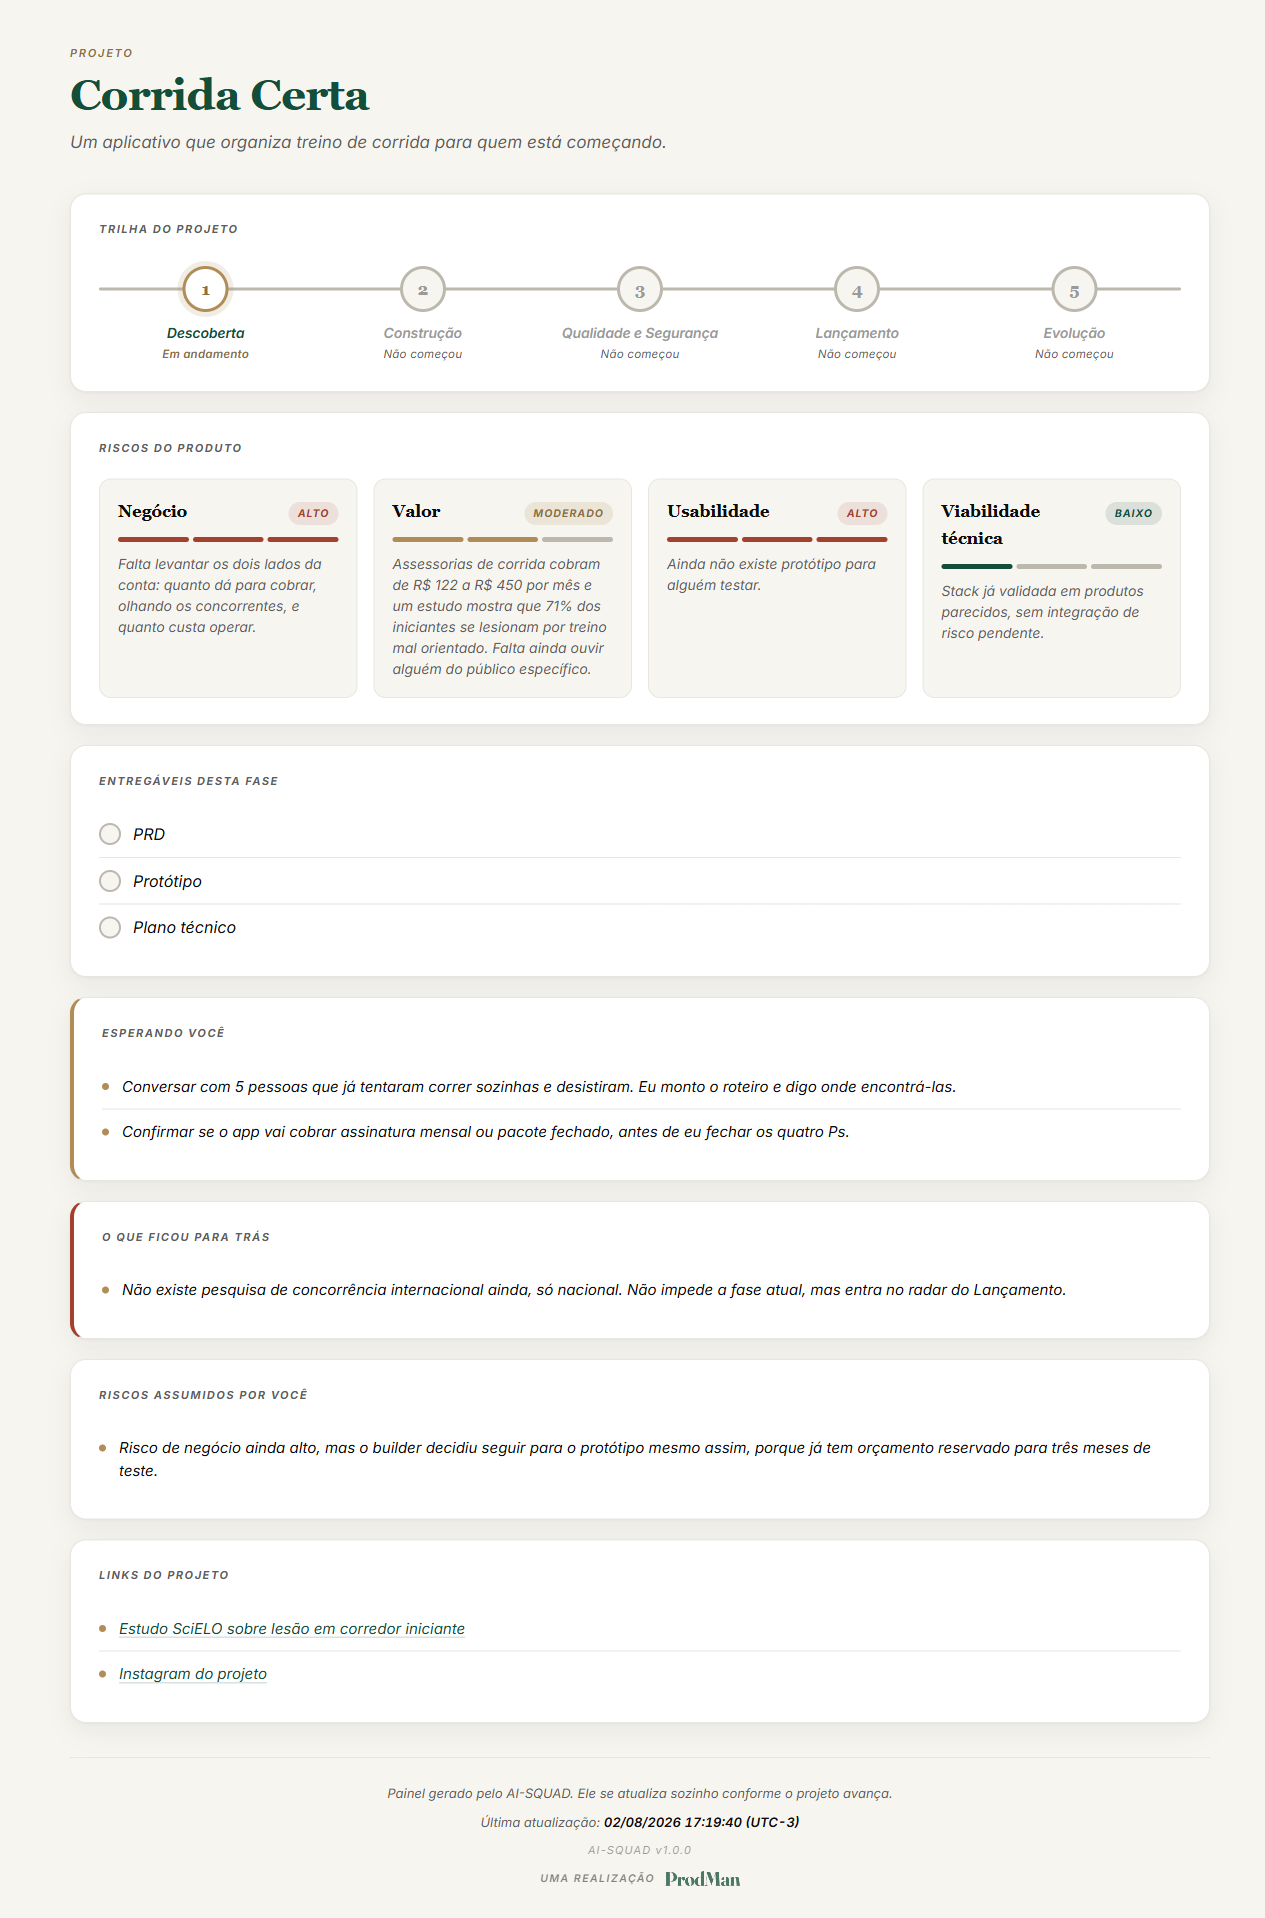
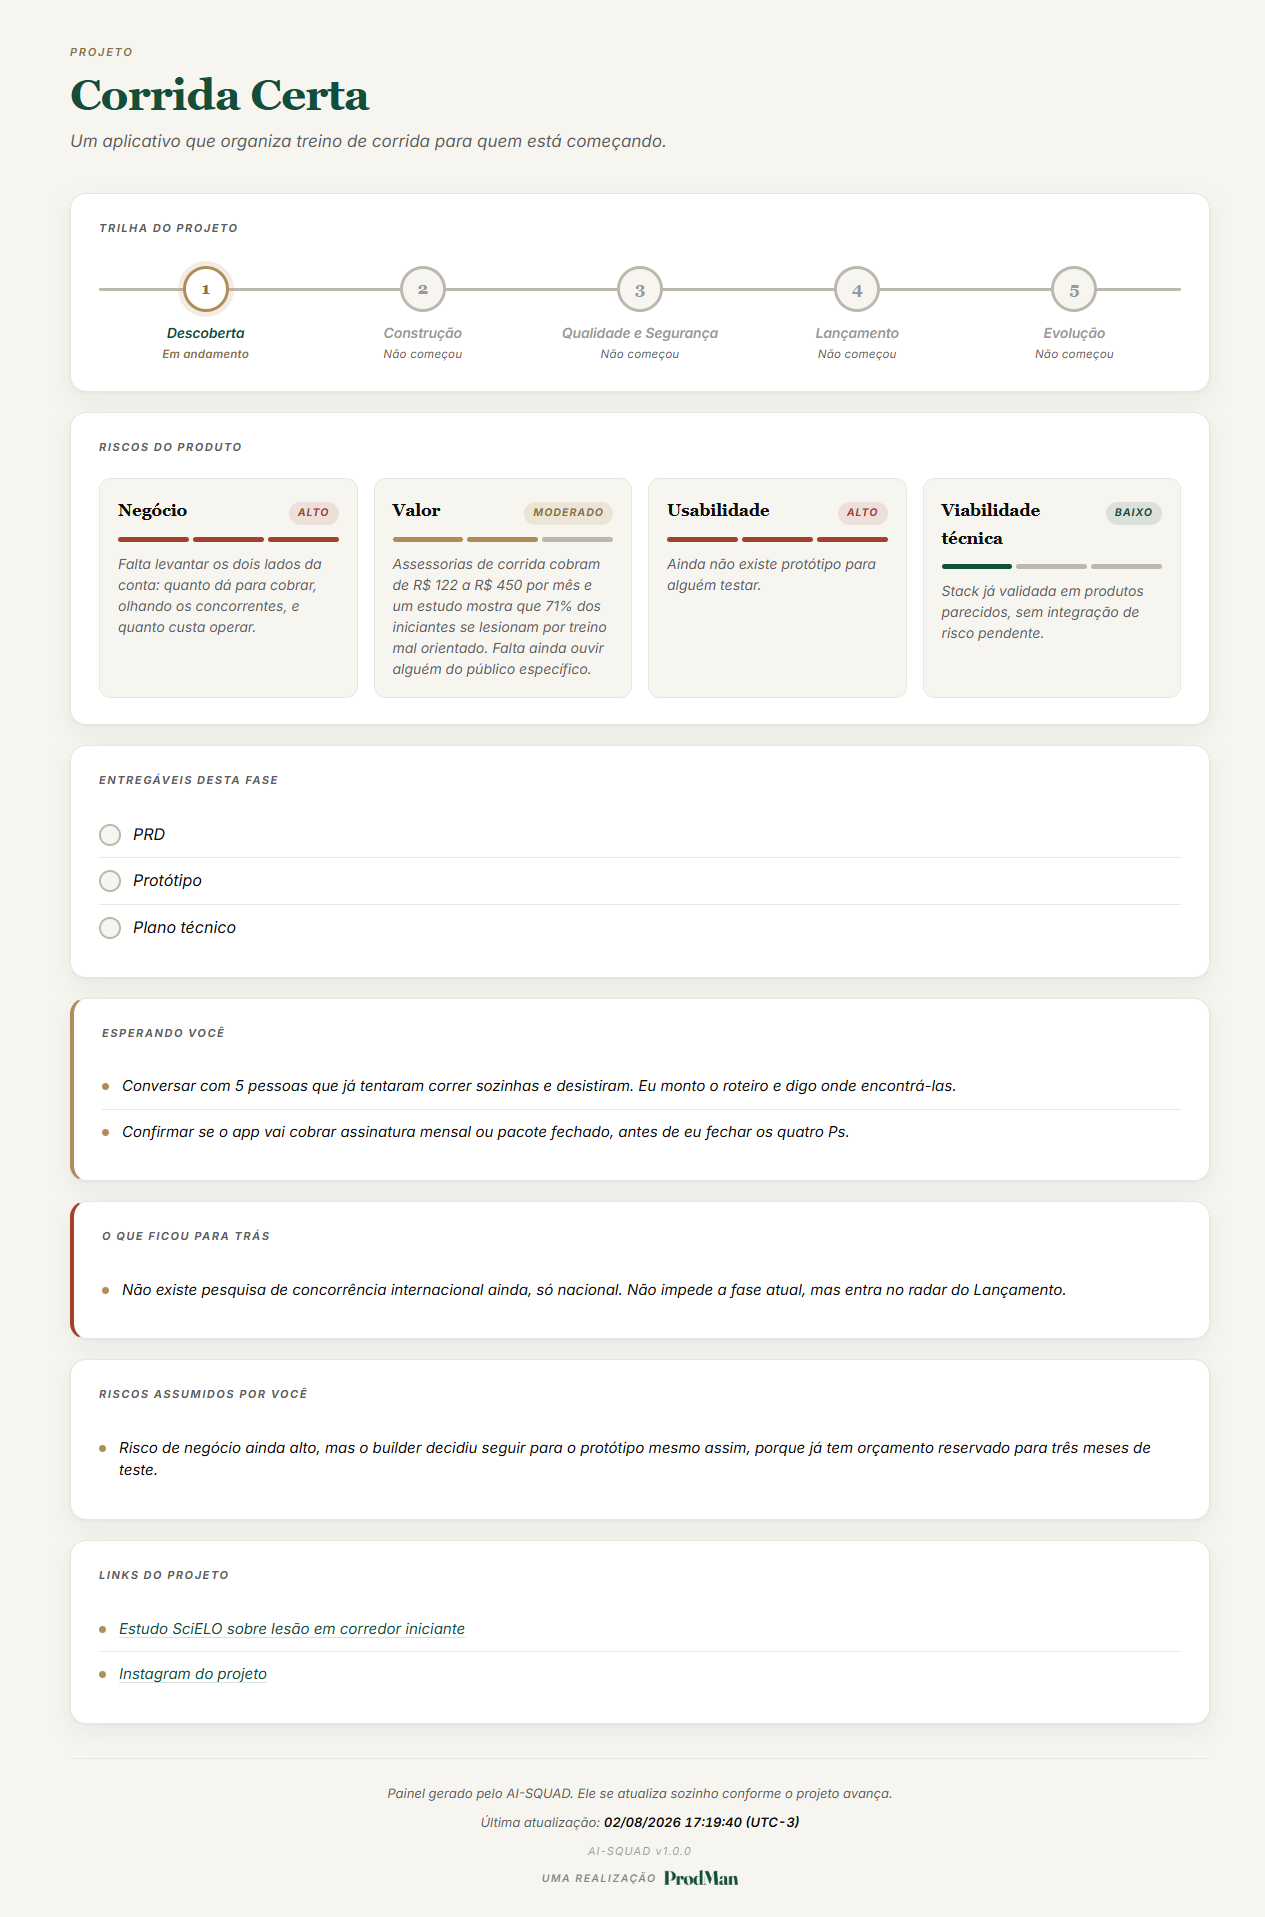
Ajusta o alinhamento vertical e o espaçamento do selo no rodapé do painel

diff --git a/templates/dashboard/dashboard.html b/templates/dashboard/dashboard.html
@@ -147,17 +147,20 @@ a{color:var(--green);text-decoration-color:var(--green-10);text-underline-offset
   font-size:11px;letter-spacing:.1em;color:var(--soft);opacity:.6;
 }
 .selo{
-  display:flex;align-items:center;gap:10px;width:fit-content;
+  display:flex;align-items:center;gap:7px;width:fit-content;
 }
 .selo .marca{
   display:flex;align-items:center;
 }
 .selo img{display:block;height:15px;width:auto}
-/* O centro de massa da marca fica em 59% da altura do arquivo, nao em 50%.
-   Centralizar pela caixa deixa o texto visualmente alto, entao compensamos 1px. */
-.selo span{
-  font-size:10.5px;letter-spacing:.14em;text-transform:uppercase;
-  font-weight:600;color:var(--soft);white-space:nowrap;margin-top:1px;opacity:.75;
+/* So o primeiro span e o texto: o segundo embrulha a imagem. Sem o seletor de
+   filho direto, a regra pegava os dois e qualquer ajuste de alinhamento se
+   anulava. line-height:1 cola a caixa nas letras: texto em caixa alta nao tem
+   descendente, e a sobra que a linha reserva embaixo jogava a frase para cima. */
+.selo > span:first-child{
+  font-size:10.5px;letter-spacing:.14em;text-transform:uppercase;line-height:1;
+  font-weight:600;color:var(--soft);white-space:nowrap;opacity:.75;
+  margin-top:3px;
 }
 
 @media (max-width:860px){
